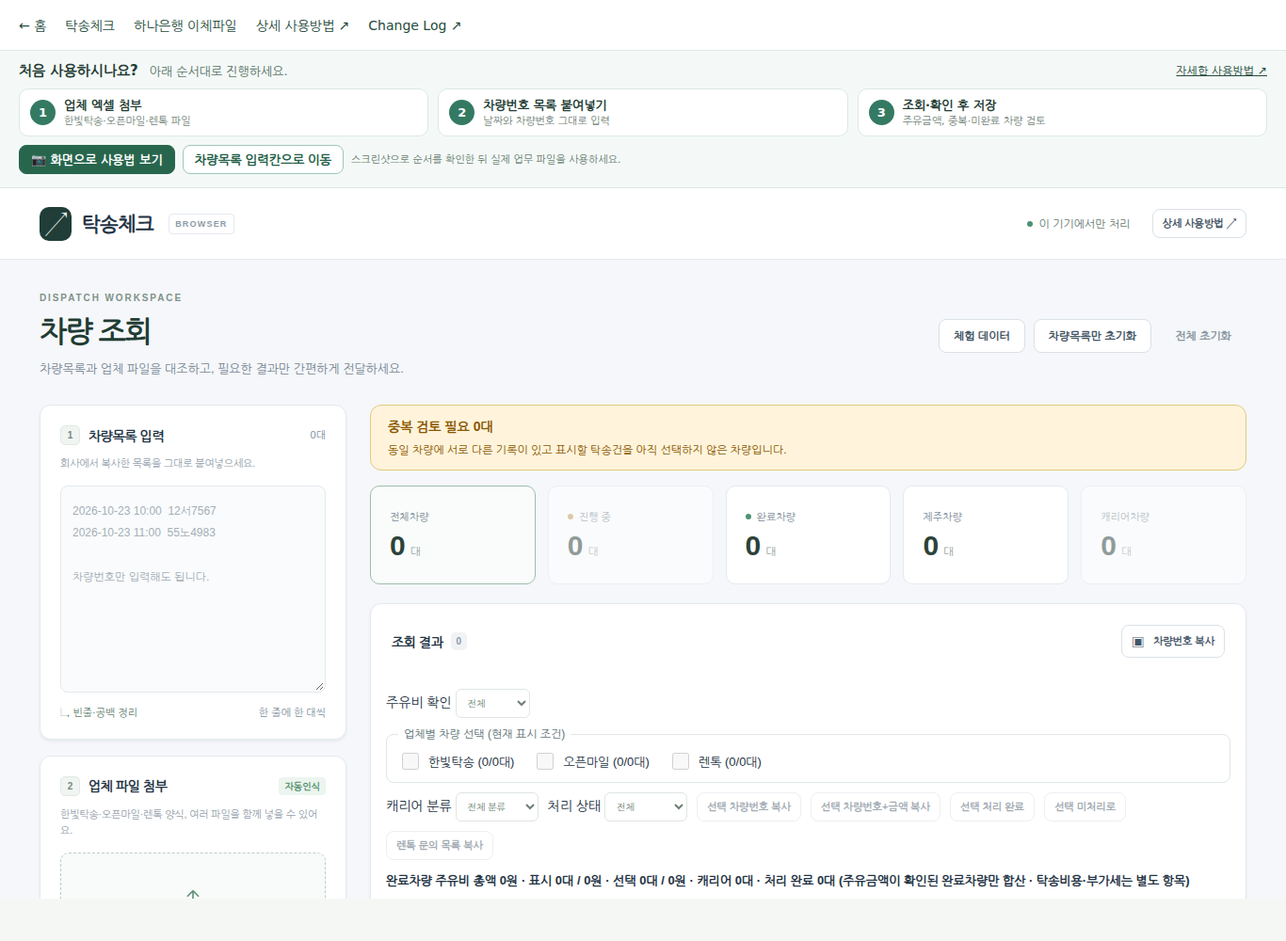
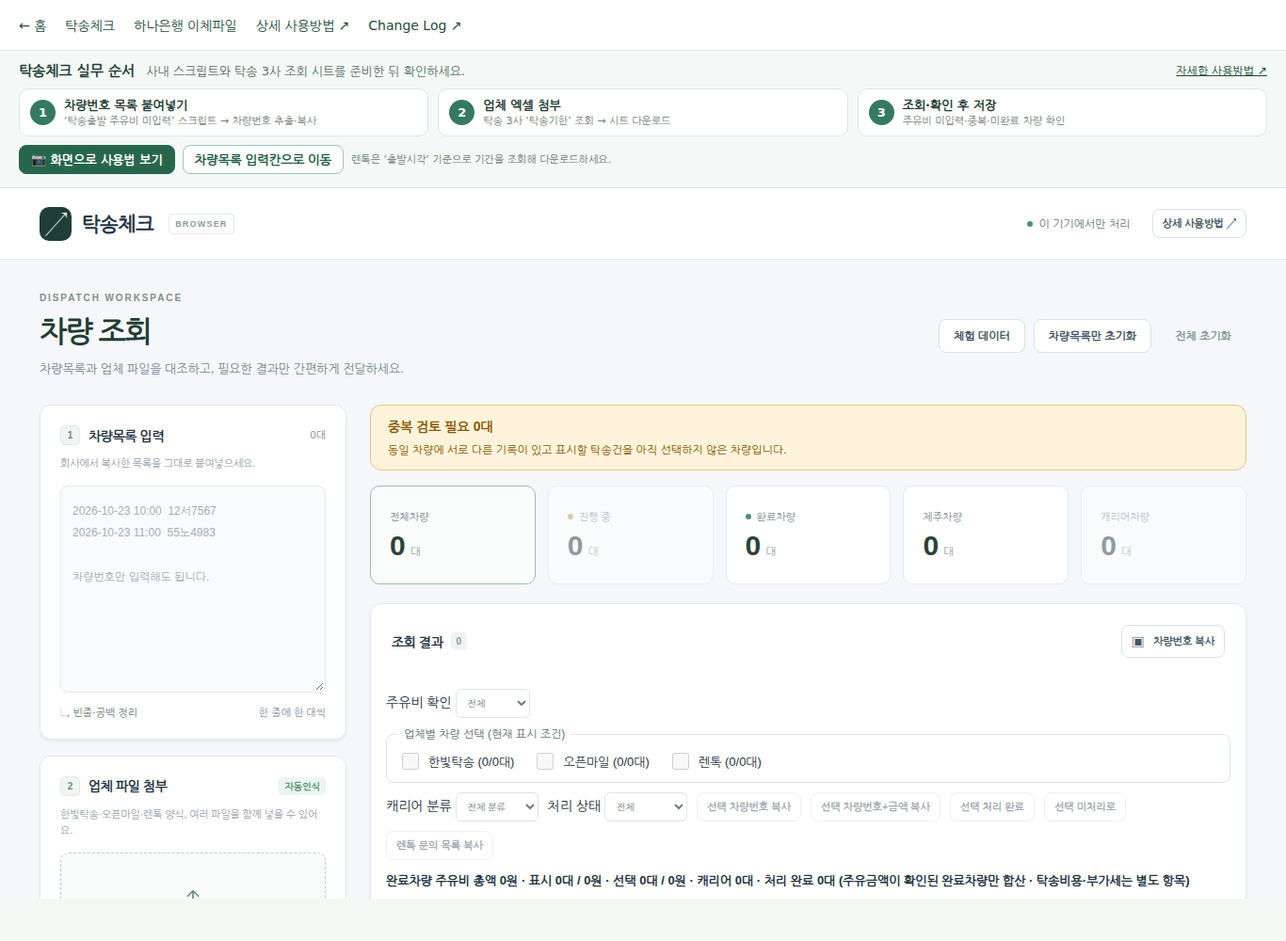
WorkTool: 탁송차량 스크립트 및 3사 탁송기한 다운로드 안내 보강
* docs: identify actual vehicle list script and three-carrier sheet workflow in dispatch quick steps

* docs: detail script-based vehicle list and three-carrier 탁송기한 sheet preparation

* docs: add detailed visual walkthrough for vehicle script and three carrier 탁송기한 sheets

* docs/test: align all dispatch onboarding with script extraction and three-carrier sheet download

* docs/test: align all dispatch onboarding with script extraction and three-carrier sheet download

* docs/test: align all dispatch onboarding with script extraction and three-carrier sheet download

* docs/test: align all dispatch onboarding with script extraction and three-carrier sheet download

* docs/test: align all dispatch onboarding with script extraction and three-carrier sheet download

* docs: capture refreshed real dispatch screen for detailed beginner walkthrough

* docs: refresh screenshots for real dispatch workflow instructions

* chore: remove one-off screenshot refresh workflow after capture

---------

Changed region(s): [[0.0, 0.062, 0.369, 0.155], [0.2767, 0.093, 0.5227, 0.186], [0.7072, 0.124, 0.8302, 0.155]]

diff --git a/dispatch-guide.html b/dispatch-guide.html
@@ -6,6 +6,7 @@
 <meta name="description" content="탁송체크의 차량목록 입력, 업체 엑셀 첨부, 날짜별 조회, 금액 검토, 수동확인과 결과 저장 방법을 안내합니다.">
 <title>탁송체크 · 상세 사용방법</title>
 <style>
+.source-path{display:grid;grid-template-columns:repeat(2,minmax(0,1fr));gap:16px;margin:18px 0}.source-card{border:1px solid #d4e5da;background:#f9fcfa;border-radius:13px;padding:20px;min-width:0}.source-number{display:inline-block;background:#e4f2e9;color:#205c40;border-radius:6px;padding:3px 9px;font-size:12px;font-weight:800}.source-card h3{font-size:18px;margin:10px 0}.source-card ol{padding-left:21px}.source-card li{font-size:14px;line-height:1.7}.source-result{font-size:13px;font-weight:650;color:#267658}.guide-screenshot{margin:22px 0 12px;border:1px solid #dae6df;border-radius:12px;overflow:hidden}.guide-screenshot img{width:100%;height:auto;display:block}.guide-screenshot figcaption{padding:10px 14px;font-size:13px;background:#f7faf8;color:#536e60}@media(max-width:760px){.source-path{grid-template-columns:1fr}.source-card{padding:16px}}
 :root{font-family:-apple-system,BlinkMacSystemFont,"Segoe UI","Malgun Gothic",sans-serif;color:#253e35;background:#f5f7f5;line-height:1.8}*{box-sizing:border-box}body{margin:0}a{color:#254b3b;text-underline-offset:4px}a:hover{text-decoration-thickness:2px}a:focus-visible,summary:focus-visible{outline:3px solid #397956;outline-offset:4px}nav{display:flex;flex-wrap:wrap;gap:12px 24px;padding:14px max(20px,calc((100vw - 1120px)/2));background:#fff;border-bottom:1px solid #dfe7e1;font-size:14px}nav a{text-decoration:none}main{max-width:1120px;margin:auto;padding:44px 24px 64px}.eyebrow{font-size:12px;letter-spacing:2px;color:#60766a}h1{font-size:clamp(28px,5vw,40px);line-height:1.35;letter-spacing:-1px;margin:12px 0 16px}h2{font-size:23px;line-height:1.5;margin:0 0 18px}h3{font-size:17px;margin:24px 0 8px}p{margin:10px 0}header>p{color:#60766a;max-width:740px}.button{display:inline-block;background:#254b3b;color:#fff;border-radius:9px;padding:10px 18px;text-decoration:none;margin:12px 0}.layout{display:grid;grid-template-columns:220px minmax(0,1fr);gap:28px;margin-top:28px}.toc{align-self:start;position:sticky;top:20px;background:#fff;border:1px solid #dfe7e1;border-radius:14px;padding:20px;font-size:14px}.toc strong{display:block;margin-bottom:12px}.toc a{display:block;padding:5px 0;text-decoration:none}.content{min-width:0}section{background:#fff;border:1px solid #dfe7e1;border-radius:14px;padding:28px;margin-bottom:20px;scroll-margin-top:20px}li{margin:8px 0}ol,ul{padding-left:23px}.note{background:#edf5ee;border-left:4px solid #397956;padding:12px 16px;border-radius:5px;margin:16px 0}.review-note{background:#fff4db;border-color:#a66a00}pre{background:#f5f7f5;border:1px solid #e0e8e2;padding:16px;border-radius:9px;overflow:auto;font-size:14px;line-height:1.8}code{font-family:ui-monospace,monospace}.tablewrap{overflow-x:auto}table{border-collapse:collapse;width:100%;font-size:14px}th,td{padding:12px;text-align:left;vertical-align:top;border-bottom:1px solid #e0e8e2}th{background:#f5f7f5;white-space:nowrap}.badge{display:inline-block;font-size:13px;font-weight:650;border-radius:5px;padding:3px 8px;white-space:nowrap}.needs{background:#fff4db;color:#8a5700}.missing{background:#eef1f4;color:#526171}.waiting{background:#e8f2ff;color:#245b9e}details{border-bottom:1px solid #e0e8e2;padding:14px 0}summary{cursor:pointer;font-weight:650}footer{font-size:13px;color:#60766a;margin-top:28px}@media(max-width:760px){main{padding:28px 16px 40px}.layout{grid-template-columns:1fr;gap:20px}.toc{position:static}.toc a{display:inline-block;margin-right:16px}section{padding:22px 18px}th,td{padding:10px 8px}}@media print{nav,.toc,.button{display:none}.layout{display:block}main{max-width:none;padding:0}section{break-inside:avoid;border:0;padding:15px 0}body{background:#fff}details{break-inside:avoid}}
 </style>
 </head>
@@ -16,11 +17,46 @@
 <div class="layout">
 <aside class="toc" aria-label="사용방법 목차"><strong>이 페이지의 내용</strong><a href="#quickstart">1. 빠르게 시작하기</a><a href="#input">2. 차량목록 입력</a><a href="#files">3. 업체 파일 첨부</a><a href="#matching">4. 조회·금액 기준</a><a href="#review">5. 상태 확인·수동확인</a><a href="#filters">6. 결과 필터·합계</a><a href="#copy-export">7. 복사·결과 저장</a><a href="#reset">8. 초기화·데이터 보관</a><a href="#faq">9. 자주 겪는 문제</a></aside>
 <div class="content">
-<section id="quickstart"><h2>1. 빠르게 시작하기</h2><ol><li><strong>차량목록 입력</strong>에 회사에서 복사한 목록을 붙여넣습니다.</li><li><strong>업체 파일 첨부</strong>에 한빛탁송·오픈마일·렌톡의 <code>.xlsx</code> 파일을 넣습니다.</li><li><strong>차량 조회하기</strong>를 누릅니다. 입력이나 파일을 바꿨다면 다시 눌러 주세요.</li><li><strong>주유비 확인</strong> 필터에서 <strong>확인 필요</strong>를 골라 원본 기록과 금액을 검토합니다.</li><li>필요한 차량을 선택해 복사하거나, 저장 범위를 고른 뒤 TXT·엑셀·PDF로 저장합니다.</li></ol><div class="note">처음에는 <strong>체험 데이터</strong>로 화면을 익힐 수 있습니다. 현재 입력과 첨부 목록이 체험 자료로 바뀔 수 있으므로, 실제 작업을 시작하기 전에 이용하세요. 체험 자료는 실제 업체 자료가 아닙니다. 접수·완료 시각이 포함되어 있으며, 12서7567·25마7579의 중복 기록에서 최신순 비교와 탁송건 선택을 확인할 수 있습니다. 77다1234는 렌톡 J열 Y인 캐리어 예시입니다. 캐리어 여부는 조회 기준일 또는 사용자가 직접 선택한 탁송건으로 판정하며 다른 날짜 기록만으로 캐리어 처리하지 않습니다.</div></section>
-<section id="input"><h2>2. 차량목록 입력</h2><p>한 줄에 한 대씩 입력합니다. 날짜·시간과 차량번호가 함께 있는 회사 목록도 그대로 붙여넣을 수 있습니다.</p><pre aria-label="차량목록 입력 예시">2026-11-03 10:00  123가4567
+<section id="quickstart">
+<h2>1. 실제 업무 순서대로 시작하기</h2>
+<p><strong>먼저 필요한 원본은 두 가지입니다.</strong> ① ‘탁송출발 주유비 미입력’ 스크립트에서 추출한 차량번호 목록, ② 탁송 3사의 ‘탁송기한’ 조회에서 다운로드한 시트입니다.</p>
+<div class="source-path">
+<div class="source-card">
+<span class="source-number">1 · 차량목록 만들기</span>
+<h3>‘탁송출발 주유비 미입력’ 스크립트</h3>
+<ol>
+<li>사내 업무 시스템에서 <strong>탁송출발 주유비 미입력</strong> 스크립트를 실행합니다.</li>
+<li>조회 결과에서 필요한 <strong>차량번호를 추출</strong>하고 복사합니다.</li>
+<li>WorkTool의 <strong>차량목록 입력</strong>에 붙여넣습니다. 날짜·시간이 함께 복사된 경우 그대로 입력할 수 있습니다.</li>
+</ol>
+<p class="source-result">준비 완료: 차량번호 목록이 WorkTool 왼쪽 입력칸에 표시됩니다.</p>
+</div>
+<div class="source-card">
+<span class="source-number">2 · 업체파일 준비하기</span>
+<h3>탁송 3사 ‘탁송기한’ 조회</h3>
+<ol>
+<li><strong>한빛탁송 · 오픈마일 · 렌톡</strong> 각 업체의 조회 화면에서 <strong>탁송기한</strong>을 조회합니다.</li>
+<li>확인할 기간을 설정하고 <strong>조회 → 시트 다운로드</strong>를 진행합니다.</li>
+<li>다운로드한 <strong>3개 업체 시트(.xlsx)</strong>를 WorkTool의 <strong>업체 파일 첨부</strong> 영역에 넣습니다.</li>
+<li>첨부 후 파일명, 업체 인식 여부, 기록 건수를 확인합니다.</li>
+</ol>
+<p class="source-result">준비 완료: 조회 대상 기간에 해당하는 3사 시트가 첨부되어 있습니다.</p>
+</div>
+</div>
+<div class="note review-note"><strong>렌톡 다운로드 주의</strong><p>렌톡은 시트를 다운로드하기 전에 조회 기준을 <strong>‘요청시각’ → ‘출발시각’</strong>으로 바꾸고 기간을 설정하세요. 세 업체의 시트 기간이 조회할 차량의 운행일과 맞는지도 확인해 주세요.</p></div>
+<h3>3. WorkTool에서 조회·확인</h3>
+<ol>
+<li>차량목록과 업체파일이 모두 준비되면 <strong>차량 조회하기</strong>를 누릅니다. 첨부·입력이 바뀌었다면 다시 조회합니다.</li>
+<li><strong>주유비 확인 → 확인 필요</strong>로 미입력 차량을 우선 보고, 미조회·미완료·중복 검토 필요 차량도 확인합니다.</li>
+<li>필요한 차량번호/금액을 복사하거나 저장 범위를 선택해 TXT·Excel·PDF로 저장합니다.</li>
+</ol>
+<figure class="guide-screenshot"><a href="./guide/dispatch-screen.png" target="_blank" rel="noopener"><img src="./guide/dispatch-screen.png" alt="탁송체크 실제 화면 예시. 왼쪽에 차량목록 입력과 업체 파일 첨부, 오른쪽에 조회 결과가 보입니다." loading="lazy" width="1366" height="1000"></a><figcaption>WorkTool 화면: 왼쪽 위 차량목록 입력, 왼쪽 아래 업체 파일 첨부, 오른쪽 조회 결과. 사진을 누르면 크게 볼 수 있습니다. 사내 스크립트 및 각 업체 조회 화면은 이 사진에 포함되지 않습니다.</figcaption></figure>
+<p><a href="./quick-guide.html#dispatch">그림으로 보는 간단 사용법 ↗</a></p>
+</section>
+<section id="input"><h2>2. 차량목록 입력</h2><p><strong>원본 출처:</strong> 사내 <strong>‘탁송출발 주유비 미입력’ 스크립트</strong>를 실행하여 차량번호를 추출하고 복사한 결과입니다. 복사한 목록을 WorkTool의 <strong>차량목록 입력</strong>에 붙여넣습니다.</p><p>한 줄에 한 대씩 입력합니다. 날짜·시간과 차량번호가 함께 있는 목록도 그대로 붙여넣을 수 있습니다.</p><pre aria-label="차량목록 입력 예시">2026-11-03 10:00  123가4567
 2026-11-03 11:30  45나6789</pre><p>날짜 없이 차량번호만 입력할 수도 있습니다.</p><pre>123가4567
 45나6789</pre><ul><li><strong>빈줄·공백 정리</strong>를 누르면 인식된 목록을 정리합니다. 인식하지 못한 줄은 안내된 내용을 수정해야 합니다.</li><li>복사·저장은 차량번호 중복을 제거합니다. 같은 차량의 서로 다른 날짜 기록을 각각 출력하려면 <strong>날짜별로 나누어 조회</strong>하세요. 한 건만 표시할 때는 탁송건 선택 기능을 사용합니다.</li><li>입력 날짜는 조회 기준입니다. 특정 운행일을 확인하려면 해당 날짜를 함께 입력하세요.</li></ul></section>
-<section id="files"><h2>3. 업체 파일 첨부</h2><div class="note review-note"><strong>주의사항 · 렌톡 시트 다운로드</strong><p>렌톡 시트를 다운로드할 때는 기간 설정의 기준을 <strong>‘요청시각’에서 ‘출발시각’으로 변경</strong>한 뒤, 조회할 기간을 설정하고 다운로드하세요.</p></div><ol><li><strong>파일을 놓거나 클릭해서 첨부</strong> 영역을 누르거나 파일을 끌어 놓습니다. 여러 파일을 함께 첨부할 수 있습니다.</li><li>암호가 있는 파일은 열기 암호를 입력합니다. 암호는 파일을 읽을 때만 사용하고 저장하지 않습니다.</li><li>첨부 목록에서 파일명, 인식된 업체 양식과 기록 건수를 확인합니다. 잘못 넣은 파일은 옆의 <strong>×</strong>로 제거합니다.</li></ol><div class="tablewrap"><table><caption>업체별 확인 항목</caption><thead><tr><th scope="col">업체</th><th scope="col">조회하는 비용</th><th scope="col">빈 금액 처리</th></tr></thead><tbody><tr><td>한빛탁송</td><td>주유/부대비용 총액</td><td>0원으로 처리. 완료 여부는 별도로 확인합니다.</td></tr><tr><td>오픈마일</td><td>주유비</td><td>미입력으로 남깁니다. 숫자 0은 주유비 없음입니다.</td></tr><tr><td>렌톡</td><td>자동 금액 확정 없이 문의 목록 제공</td><td>슬랙봇 등으로 별도 확인합니다.</td></tr></tbody></table></div><p>지원 형식은 <strong>.xlsx</strong>, 한 파일 최대 <strong>40MB</strong>, 한 시트 최대 <strong>100,000행</strong>입니다. 업체는 엑셀 양식의 항목을 보고 자동인식합니다.</p></section>
+<section id="files"><h2>3. 업체 파일 첨부</h2><p><strong>원본 출처:</strong> 한빛탁송·오픈마일·렌톡에서 각각 <strong>탁송기한 조회 → 대상 기간 지정 → 조회 → 시트 다운로드</strong>로 저장한 엑셀 파일입니다. 저장된 시트를 WorkTool의 업체 파일 첨부 영역에 넣습니다.</p><div class="note review-note"><strong>주의사항 · 렌톡 시트 다운로드</strong><p>렌톡 시트를 다운로드할 때는 기간 설정의 기준을 <strong>‘요청시각’에서 ‘출발시각’으로 변경</strong>한 뒤, 조회할 기간을 설정하고 다운로드하세요.</p></div><ol><li><strong>파일을 놓거나 클릭해서 첨부</strong> 영역을 누르거나 파일을 끌어 놓습니다. 여러 파일을 함께 첨부할 수 있습니다.</li><li>암호가 있는 파일은 열기 암호를 입력합니다. 암호는 파일을 읽을 때만 사용하고 저장하지 않습니다.</li><li>첨부 목록에서 파일명, 인식된 업체 양식과 기록 건수를 확인합니다. 잘못 넣은 파일은 옆의 <strong>×</strong>로 제거합니다.</li></ol><div class="tablewrap"><table><caption>업체별 확인 항목</caption><thead><tr><th scope="col">업체</th><th scope="col">조회하는 비용</th><th scope="col">빈 금액 처리</th></tr></thead><tbody><tr><td>한빛탁송</td><td>주유/부대비용 총액</td><td>0원으로 처리. 완료 여부는 별도로 확인합니다.</td></tr><tr><td>오픈마일</td><td>주유비</td><td>미입력으로 남깁니다. 숫자 0은 주유비 없음입니다.</td></tr><tr><td>렌톡</td><td>자동 금액 확정 없이 문의 목록 제공</td><td>슬랙봇 등으로 별도 확인합니다.</td></tr></tbody></table></div><p>지원 형식은 <strong>.xlsx</strong>, 한 파일 최대 <strong>40MB</strong>, 한 시트 최대 <strong>100,000행</strong>입니다. 업체는 엑셀 양식의 항목을 보고 자동인식합니다.</p></section>
 <section id="matching"><h2>4. 조회·금액 기준</h2><h3>어느 날짜를 조회하나요?</h3><p>원본에 시간이 있으면 <strong>2026-11-04 14:30</strong>처럼 탁송일시에 시간까지 표시합니다. 초 정보가 있으면 초도 표시합니다. 조회 결과·탁송건 선택 목록·조회 근거와 TXT·엑셀·PDF 저장에 반영합니다. 원본에 날짜만 있으면 날짜만 표시하며, 날짜 매칭과 시작일·종료일 필터는 일자 기준으로 동작합니다. 같은 날이라도 시간이 다른 기록은 별도 선택 항목으로 구분합니다.</p><ul><li><strong>입력에 날짜가 있으면:</strong> 기본적으로 같은 운행일 기록만 조회합니다. 해당 날짜의 기록이 없으면 다른 날짜 금액을 가져오지 않고 확인 대상으로 표시합니다.</li><li><strong>날짜가 없으면:</strong> 해당 차량의 첨부 업체 전체 기록에서 완료·접수일시 중 최신 시각을 기준으로 조회하고, 해당 시각이 없으면 탁송일시를 사용합니다. 원본 운행일이 없으면 차량번호 기준으로 조회하고 안내를 표시합니다.</li><li>결과의 시작일·종료일 필터는 조회 결과를 좁혀 보는 기능입니다. 다른 날짜 기록을 다시 조회하려면 입력 날짜를 바꾸고 <strong>차량 조회하기</strong>를 누르세요.</li></ul><h3>같은 차량의 탁송건이 여러 개라면</h3><p>접수일시는 <strong>한빛탁송 I열·오픈마일 A열·렌톡 C열 요청 시각</strong>을 우선 사용합니다. 각 기록의 <strong>탁송완료일시·탁송접수일시</strong>를 함께 표시하고, 둘 중 더 최신인 시각으로 정렬해 최신 비교 항목을 맨 위에 보여 줍니다. 날짜를 입력하면 같은 운행일 내에서 비교하고, 날짜가 없으면 첨부 기록 전체에서 최근 시각을 기준으로 우선 표시합니다. 완료·접수 시각이 모두 없으면 원본 탁송일시를 사용합니다. 해당 열이나 값이 없는 경우에는 ‘정보 없음’으로 표시하며, 금액 충돌이나 별도 운행 검토는 직접 한 건을 선택해 해결합니다.</p><p>상단 <strong>중복 검토 필요 N대</strong>에서 <strong>검토 목록 보기</strong>를 누르면 기존 필터·검색·날짜 조건을 해제하고 중복 검토 대상만 모아 표시합니다. 결과의 <strong>중복 검토 필요</strong> 탭에서도 열 수 있습니다. 내용이 같은 중복 행은 제외하고, 서로 다른 기록이 여러 개이며 표시할 건을 아직 선택하지 않은 차량을 차량번호당 1대로 셉니다.</p><ol><li>결과의 <strong>조회 근거 / 이전 기록</strong> 열에서 <strong>표시할 탁송건 선택</strong>을 확인합니다. 내용이 같은 중복 기록은 하나로 묶습니다.</li><li>날짜·업체·상태·금액·출발지·파일 및 원본 행을 비교해 적용할 건을 선택하고 <strong>선택한 탁송건 적용</strong>을 누릅니다.</li><li>선택한 기록의 날짜·업체·상태·금액이 결과와 복사·저장에 반영됩니다. 적용한 차량은 중복 검토 필요 건수와 목록에서 빠집니다. 입력 날짜와 다른 기록도 직접 선택할 수 있으며, 다른 기록의 금액은 합산하지 않습니다.</li><li>첫 항목인 <strong>자동 조회 기준으로 표시</strong>를 적용하면 원래 조회 기준으로 되돌아갑니다.</li></ol><p>선택은 현재 페이지에서 유지하며, 원본 기록이 바뀌거나 전체 초기화·새로고침하면 다시 선택해야 합니다. 선택한 기록이 미완료·금액 미입력·렌톡 문의·캐리어이면 해당 상태로 처리합니다. 캐리어 여부도 선택한 건의 J열 값을 적용합니다. 수동확인 금액은 선택한 기록별로 구분합니다.</p><h3>탁송비용·부가세·총 탁송비용</h3><div class="tablewrap"><table><thead><tr><th scope="col">업체</th><th scope="col">탁송비용 열</th></tr></thead><tbody><tr><td>한빛탁송</td><td>AP열</td></tr><tr><td>오픈마일</td><td>U열</td></tr><tr><td>렌톡</td><td>S열</td></tr></tbody></table></div><p>조회 표에 <strong>탁송비용</strong>, <strong>탁송비용 부가세</strong>, <strong>총 탁송비용</strong>을 별도로 표시합니다. 총 탁송비용은 탁송비용과 부가세를 더한 금액입니다. 예: 50,000원 + 5,000원 = 55,000원. 세 항목의 숫자를 각각 클릭하면 해당 금액을 복사합니다. 천 단위 쉼표와 ‘원’ 없이 숫자만 복사하며, 미입력·선택 필요 상태는 복사하지 않습니다. 부가세는 원본 탁송비용의 <strong>10%</strong>이며 반올림하지 않습니다. 예: 50,000원 → 5,000원, 34,567원 → 3,456.7원. 빈칸·잘못된 금액은 미입력으로 표시하며 숫자 0은 유효합니다. 완료 여부와 관계없이 선택한 기록의 원본 비용을 보여 줍니다.</p><p>동일 기준일에 탁송비용이 다르면 <strong>선택 필요</strong>로 표시합니다. 탁송건을 선택하면 해당 건의 비용·부가세·총액을 함께 적용합니다. TXT·엑셀·PDF 저장에도 세 항목이 포함됩니다. 기존 ‘차량번호+금액 복사’는 주유금액을 복사합니다.</p><h3>어떤 금액을 적용하나요?</h3><ul><li>완료 기록의 금액을 확인합니다. 미완료 건은 금액이 있어도 완료 금액으로 확정하지 않습니다.</li><li>원본 금액은 <strong>10원 단위로 반올림</strong>합니다. 예: 12,345원 → 12,350원. 수동확인 금액은 입력한 정수 금액을 그대로 적용합니다.</li><li>내용이 같은 중복 기록은 제외하며, <strong>서로 다른 운행은 자동 합산하지 않습니다.</strong></li><li>같은 기준일의 완료 금액이 다르거나, 운행번호·출발지로 보아 별도 운행인지 불명확하면 자동 확정하지 않고 검토 대상으로 남깁니다.</li></ul><div class="note review-note"><strong>조회 근거 / 이전 기록</strong>에서 파일·시트·원본 행과 운행 기록을 확인하세요. 금액 충돌 시 원본을 대조하거나 업체에 문의한 뒤 수동확인합니다.</div></section>
 <section id="review"><h2>5. 상태 확인·수동확인</h2><p><strong>조회 상태</strong>와 <strong>주유비 확인 / 수동확인</strong> 열을 함께 확인하세요. 완료차량에 포함되어도 금액은 추가 확인이 필요할 수 있습니다.</p><div class="tablewrap"><table><thead><tr><th scope="col">표시</th><th scope="col">의미와 다음 작업</th></tr></thead><tbody><tr><td><span class="badge needs">주황색 · 확인 필요</span></td><td>금액 미입력·형식 오류·동일 기준일 금액 상이·운행 구분 등 검토가 필요합니다. 표시된 사유와 조회 근거를 확인합니다.</td></tr><tr><td><span class="badge missing">회색 · 미조회</span></td><td>일치하는 원본 기록이 없습니다. 차량번호와 첨부 파일·기간을 확인합니다.</td></tr><tr><td><span class="badge waiting">파란색 · 완료 대기</span></td><td>미완료 건입니다. 업체 상태가 갱신된 파일을 받아 다시 조회합니다.</td></tr><tr><td>확인됨 / 없음(0원)</td><td>금액이 확인된 건 / 주유비가 0원인 건입니다.</td></tr><tr><td>업체 문의</td><td>렌톡 문의 대상 등 별도 확인이 필요합니다. 문의 목록을 복사해 활용합니다.</td></tr><tr><td>캐리어 제외</td><td>렌톡 시트 J열 ‘캐리어탁송’이 Y인 차량입니다. 메모·비고의 문구로는 캐리어를 판정하지 않습니다. 완료 여부와 관계없이 분류하고 렌톡 문의 목록에서 제외합니다.</td></tr></tbody></table></div><h3>확인한 금액을 직접 저장하기</h3><ol><li>수동확인이 가능한 완료 건에서 <strong>금액 수동확인</strong>을 펼칩니다.</li><li><strong>확인한 금액(원)</strong>에 0 이상의 정수를 입력합니다.</li><li><strong>확인 사유 또는 확인처</strong>에 근거를 적고 <strong>확인 저장</strong>을 누릅니다.</li><li>취소하려면 <strong>수동확인 해제</strong>를 누릅니다. 저장된 확인 내역 전부를 지우려면 <strong>저장된 수동확인 전체 삭제</strong>를 사용합니다.</li></ol><p>수동확인은 완료 기록이 있는 대상에서만 가능하며 캐리어는 제외됩니다. 저장한 뒤 원본 기록이 바뀌면 다시 확인해야 합니다.</p></section>
 <section id="filters"><h2>6. 결과 필터·합계</h2><ul><li>상단 요약이나 탭의 <strong>전체차량·진행 중·완료차량·제주차량·캐리어차량</strong>을 눌러 목록을 좁힙니다.</li><li><strong>렌톡 문의·확인 필요</strong> 탭과 업체, 탁송 상태, 시작일·종료일, 차량번호 검색을 함께 사용할 수 있습니다.</li><li><strong>캐리어 분류</strong>, <strong>처리 상태</strong>, <strong>주유비 확인</strong> 필터로 미처리나 확인 필요 차량을 모아 봅니다.</li><li>제주차량은 렌톡 기록의 출발지 주소를 기준으로 상태와 관계없이 판별합니다.</li><li>표 제목의 <strong>↕</strong> 버튼을 누르면 정렬 방향을 바꿉니다.</li></ul><p><strong>완료차량 총액·표시·선택</strong>의 합계에는 금액이 확인된 완료차량만 포함됩니다. 완료차량 수와 금액 확인 차량 수는 다를 수 있습니다.</p><div class="note">결과가 보이지 않으면 탭을 <strong>전체차량</strong>으로 바꾸고 업체·탁송 상태·캐리어·처리 상태·주유비 확인을 전체로 되돌린 뒤, 날짜와 검색어를 지워 보세요.</div></section>

diff --git a/index.html b/index.html
@@ -2,4 +2,4 @@
 <html lang="ko"><head><meta charset="utf-8"><meta name="viewport" content="width=device-width,initial-scale=1"><meta name="description" content="탁송 차량 조회와 하나은행 이체파일 생성을 한곳에서 이용하세요."><title>업무 도구 · 탁송체크 & 이체파일</title><style>
 .visual-guide-hero{display:inline-flex;gap:11px;align-items:center;flex-wrap:wrap;margin-top:18px;padding:12px 17px;border:1px solid #acd7c1;border-radius:11px;background:#e8f5ed;color:#235942;text-decoration:none;font-weight:800;font-size:14px}.visual-guide-hero span{font-size:12px;font-weight:500;color:#3d7760}.visual-guide-hero:hover,.visual-guide-hero:focus-visible{border-color:#579d77;background:#dff2e8}.beginner-start{display:grid;gap:7px;margin:24px 0 0;padding:16px 20px;border:1px solid #dce8de;border-radius:12px;background:#fff;color:#4c6859;font-size:13px;line-height:1.65}.beginner-start strong{font-size:15px;color:#234b35}.beginner-start span b{color:#285a41}.beginner-start+section.tools{margin-top:20px}
 :root{font-family:-apple-system,BlinkMacSystemFont,"Segoe UI","Malgun Gothic",sans-serif;color:#253e35;background:#f5f7f5;font-synthesis:none}*{box-sizing:border-box}body{margin:0}a{color:inherit;text-decoration:none}header{height:78px;padding:0 6vw;display:flex;align-items:center;justify-content:space-between;background:#fff;border-bottom:1px solid #e2e9e4}.brand{display:flex;align-items:center;gap:12px;font-size:19px;font-weight:750}.mark{background:#254b3b;color:#fff;padding:6px 12px;border-radius:10px;font-size:24px}.local{font-size:12px;color:#6b8275;display:flex;align-items:center;gap:7px}.local:before{content:'';width:6px;height:6px;background:#579c73;border-radius:50%}main{max-width:1120px;margin:auto;padding:70px 28px 35px}.eyebrow{font-size:11px;font-weight:700;letter-spacing:2px;color:#7c9285}h1{font-size:clamp(28px,4vw,42px);letter-spacing:-1.7px;margin:16px 0 15px;font-weight:720;line-height:1.4}.intro{font-size:15px;color:#7a8980;line-height:1.8;margin:0}.tools{display:grid;grid-template-columns:1fr 1fr;gap:24px;margin-top:40px}.tool{position:relative;padding:30px;background:#fff;border:1px solid #dfe7e1;border-radius:18px;display:flex;flex-direction:column;transition:transform .18s,box-shadow .18s,border-color .18s;min-height:358px}.tool:hover{transform:translateY(-4px);border-color:#89af99;box-shadow:0 14px 35px #244b3a0c}.tool:focus-visible{outline:3px solid #8bbaa0;outline-offset:5px}.cardtop{display:flex;justify-content:space-between;align-items:center}.icon{display:grid;place-items:center;width:52px;height:52px;background:#edf5ee;color:#367555;border-radius:13px}.icon svg{width:27px;height:27px;fill:none;stroke:currentColor;stroke-width:1.5;stroke-linejoin:round;stroke-linecap:round}.tag{font-size:10px;letter-spacing:1.1px;color:#8b9d91}.tool h2{font-size:25px;letter-spacing:-.8px;margin:27px 0 13px}.tool p{font-size:13px;color:#7b8980;line-height:1.85;margin:0}.chips{display:flex;gap:7px;flex-wrap:wrap;margin:22px 0 30px}.chips span{font-size:10px;color:#708776;border:1px solid #e4ece5;border-radius:5px;padding:5px 7px;background:#fafcfa}.cta{margin-top:auto;display:flex;justify-content:space-between;align-items:center;border-top:1px solid #e8ede9;padding-top:19px;font-size:13px;font-weight:650;color:#397956}.cta b{font-size:22px;font-weight:400}.transfer .icon{color:#168779;background:#eaf6f3}.transfer .cta{color:#178578}.footnote{display:flex;gap:14px;align-items:center;margin-top:29px;padding:20px 22px;border:1px solid #e2e9e3;border-radius:12px;color:#819087;font-size:12px;line-height:1.8}.footnote strong{color:#597361;white-space:nowrap;font-weight:600}.footnote p{margin:0}footer{margin-top:55px;padding-top:20px;border-top:1px solid #dfe7e1;display:flex;justify-content:space-between;font-size:10px;color:#95a299;gap:12px}@media(max-width:650px){header{height:66px;padding:0 20px}.brand{font-size:17px}.local{font-size:10px}main{padding:40px 20px 25px}.tools{grid-template-columns:1fr;gap:17px;margin-top:28px}.tool{padding:25px;min-height:325px}.tool h2{font-size:24px;margin-top:22px}.footnote{display:block}.footnote strong{display:block;margin-bottom:5px}footer{margin-top:35px}}
-</style></head><body><header><a href="./index.html" class="brand" aria-label="업무 도구 홈"><span class="mark">↗</span> 업무 도구</a><span class="local">로그인 없이 바로 이용</span></header><main><div class="eyebrow">YOUR DAILY WORKSPACE</div><h1>어떤 업무를 시작할까요?</h1><p class="intro">하실 업무를 선택한 뒤, 화면에 표시되는 단계에 따라 진행하세요.<br>처음 사용해도 예시와 상세 안내를 확인할 수 있습니다.</p><a class="visual-guide-hero" href="./quick-guide.html">📷 화면으로 사용법 먼저 보기 <span>실제 스크린샷으로 두 도구 사용법 확인 ↗</span></a><aside class="beginner-start" aria-label="처음 사용자를 위한 안내"><strong>처음 사용한다면 이렇게 시작하세요</strong><span><b>탁송체크</b>는 업체 엑셀 + 차량번호 목록이 필요하며, 실제 화면 스크린샷으로 사용법을 확인할 수 있습니다.</span><span><b>하나은행 이체파일</b>은 Slack 이체 요청 원문을 붙여넣고, 계좌·금액을 확인한 뒤 엑셀을 저장합니다.</span></aside><section class="tools" aria-label="기능 선택"><a class="tool" href="./dispatch.html"><div class="cardtop"><span class="icon"><svg viewBox="0 0 28 28" aria-hidden="true"><path d="m5 12 2-6h14l2 6M5 12h18v9H5zM8 21v3m12-3v3M8 16h3m6 0h3M10 6V4h8v2"/></svg></span><span class="tag">01 / DISPATCH</span></div><h2>탁송체크</h2><p>차량목록과 업체 엑셀을 대조하고<br>주유금액과 확인이 필요한 차량을 정리합니다.</p><div class="chips"><span>업체 파일 자동인식</span><span>제주 출발 필터</span><span>TXT · 엑셀 · PDF</span></div><div class="cta">차량 조회 시작하기 <b aria-hidden="true">→</b></div></a><a class="tool transfer" href="./transfer.html"><div class="cardtop"><span class="icon"><svg viewBox="0 0 28 28" aria-hidden="true"><rect x="4" y="5" width="20" height="18" rx="3"/><path d="M4 11h20M8 16h8m-3-3 3 3-3 3M20 20h-5"/></svg></span><span class="tag">02 / TRANSFER</span></div><h2>하나은행 이체파일</h2><p>Slack 스레드에서 이체 정보를 추출하고<br>검토한 내용을 은행 업로드용 엑셀로 만듭니다.</p><div class="chips"><span>여러 스레드 추출</span><span>1억 초과 자동 분할</span><span>생성일시 파일명</span></div><div class="cta">이체파일 만들기 <b aria-hidden="true">→</b></div></a></section><p style="font-size:14px;margin:20px 0 0"><a href="./dispatch-guide.html" target="_blank" rel="noopener" style="text-decoration:underline;text-underline-offset:4px">탁송체크 상세 사용방법 ↗</a> <span aria-hidden="true"> · </span> <a href="./transfer-guide.html" target="_blank" rel="noopener" style="text-decoration:underline;text-underline-offset:4px">하나은행 이체툴 상세 사용방법 ↗</a></p><aside class="footnote"><strong>이 기기에서만 처리해요</strong><p>입력한 내용과 첨부 파일은 서버로 전송하지 않습니다. 각 도구 상단에서 다른 기능으로 이동할 수 있습니다.</p></aside><footer><span>업무 도구 · 탁송체크 & 하나은행 이체파일</span><a href="./changelog.html" target="_blank" rel="noopener" style="text-decoration:underline;text-underline-offset:4px">Change Log ↗</a><span>Mac & Windows</span></footer></main></body></html>
+</style></head><body><header><a href="./index.html" class="brand" aria-label="업무 도구 홈"><span class="mark">↗</span> 업무 도구</a><span class="local">로그인 없이 바로 이용</span></header><main><div class="eyebrow">YOUR DAILY WORKSPACE</div><h1>어떤 업무를 시작할까요?</h1><p class="intro">하실 업무를 선택한 뒤, 화면에 표시되는 단계에 따라 진행하세요.<br>처음 사용해도 예시와 상세 안내를 확인할 수 있습니다.</p><a class="visual-guide-hero" href="./quick-guide.html">📷 화면으로 사용법 먼저 보기 <span>실제 스크린샷으로 두 도구 사용법 확인 ↗</span></a><aside class="beginner-start" aria-label="처음 사용자를 위한 안내"><strong>처음 사용한다면 이렇게 시작하세요</strong><span><b>탁송체크</b>는 ‘탁송출발 주유비 미입력’ 스크립트의 차량번호 목록과 탁송 3사 ‘탁송기한’ 조회 시트가 필요합니다.</span><span><b>하나은행 이체파일</b>은 Slack 이체 요청 원문을 붙여넣고, 계좌·금액을 확인한 뒤 엑셀을 저장합니다.</span></aside><section class="tools" aria-label="기능 선택"><a class="tool" href="./dispatch.html"><div class="cardtop"><span class="icon"><svg viewBox="0 0 28 28" aria-hidden="true"><path d="m5 12 2-6h14l2 6M5 12h18v9H5zM8 21v3m12-3v3M8 16h3m6 0h3M10 6V4h8v2"/></svg></span><span class="tag">01 / DISPATCH</span></div><h2>탁송체크</h2><p>차량목록과 업체 엑셀을 대조하고<br>주유금액과 확인이 필요한 차량을 정리합니다.</p><div class="chips"><span>업체 파일 자동인식</span><span>제주 출발 필터</span><span>TXT · 엑셀 · PDF</span></div><div class="cta">차량 조회 시작하기 <b aria-hidden="true">→</b></div></a><a class="tool transfer" href="./transfer.html"><div class="cardtop"><span class="icon"><svg viewBox="0 0 28 28" aria-hidden="true"><rect x="4" y="5" width="20" height="18" rx="3"/><path d="M4 11h20M8 16h8m-3-3 3 3-3 3M20 20h-5"/></svg></span><span class="tag">02 / TRANSFER</span></div><h2>하나은행 이체파일</h2><p>Slack 스레드에서 이체 정보를 추출하고<br>검토한 내용을 은행 업로드용 엑셀로 만듭니다.</p><div class="chips"><span>여러 스레드 추출</span><span>1억 초과 자동 분할</span><span>생성일시 파일명</span></div><div class="cta">이체파일 만들기 <b aria-hidden="true">→</b></div></a></section><p style="font-size:14px;margin:20px 0 0"><a href="./dispatch-guide.html" target="_blank" rel="noopener" style="text-decoration:underline;text-underline-offset:4px">탁송체크 상세 사용방법 ↗</a> <span aria-hidden="true"> · </span> <a href="./transfer-guide.html" target="_blank" rel="noopener" style="text-decoration:underline;text-underline-offset:4px">하나은행 이체툴 상세 사용방법 ↗</a></p><aside class="footnote"><strong>이 기기에서만 처리해요</strong><p>입력한 내용과 첨부 파일은 서버로 전송하지 않습니다. 각 도구 상단에서 다른 기능으로 이동할 수 있습니다.</p></aside><footer><span>업무 도구 · 탁송체크 & 하나은행 이체파일</span><a href="./changelog.html" target="_blank" rel="noopener" style="text-decoration:underline;text-underline-offset:4px">Change Log ↗</a><span>Mac & Windows</span></footer></main></body></html>

diff --git a/dispatch.html b/dispatch.html
@@ -1,4 +1,4 @@
-<!doctype html><html lang="ko"><head><meta charset="utf-8"><meta name="viewport" content="width=device-width,initial-scale=1"><title>탁송체크 · 차량 조회</title><style>*{box-sizing:border-box}body{margin:0;font-family:system-ui,sans-serif;background:#f5f7f5}nav{min-height:54px;height:54px;overflow-x:auto;white-space:nowrap;display:flex;align-items:center;gap:20px;padding:0 20px;background:#fff;border-bottom:1px solid #dfe7e1}a{color:#254b3b;text-decoration:none;font-size:14px}a:focus-visible{outline:2px solid #254b3b}iframe{display:block;width:100%;height:calc(100dvh - 245px);min-height:520px;border:0}.dispatch-start{padding:12px 20px 14px;background:#f4f9f7;border-bottom:1px solid #dce8e2;color:#233c34}.dispatch-start-title{display:flex;gap:12px;align-items:center;flex-wrap:wrap;font-size:13px;margin-bottom:10px}.dispatch-start-title strong{font-size:15px}.dispatch-start-title>span{color:#597367}.dispatch-start-title a{margin-left:auto;text-decoration:underline;font-size:12px}.dispatch-steps{display:grid;grid-template-columns:repeat(3,minmax(0,1fr));gap:10px;margin:0;padding:0;list-style:none}.dispatch-steps li{display:flex;align-items:center;gap:9px;background:#fff;border:1px solid #dce9e3;border-radius:10px;padding:9px 11px}.dispatch-steps b{display:grid;place-items:center;flex:none;width:27px;height:27px;border-radius:50%;color:white;background:#347a62;font-size:13px}.dispatch-steps strong{display:block;font-size:13px}.dispatch-steps small{display:block;color:#718177;font-size:11px;margin-top:3px}.dispatch-beginner-actions{display:flex;gap:8px;align-items:center;flex-wrap:wrap;margin-top:9px}.dispatch-beginner-actions button{border:1px solid #9ec8b5;border-radius:8px;background:#fff;color:#235e47;padding:7px 12px;font-weight:700;cursor:pointer}.dispatch-visual-guide{display:inline-flex;align-items:center;justify-content:center;border:1px solid #27664d;border-radius:8px;background:#27664d;color:#fff;padding:7px 12px;font-size:13px;font-weight:800;text-decoration:none}.dispatch-visual-guide:hover,.dispatch-visual-guide:focus-visible{background:#1e563e;color:#fff}.dispatch-beginner-actions button:focus-visible{outline:2px solid #206e5b;outline-offset:3px}.dispatch-beginner-actions small{color:#677b6e;font-size:11px}@media(max-width:700px){.dispatch-start{padding:10px 12px}.dispatch-start-title{margin-bottom:8px}.dispatch-steps{grid-template-columns:1fr;gap:5px}.dispatch-steps li{padding:6px 9px}.dispatch-steps small{display:none}.dispatch-start-title a{margin-left:0}.dispatch-beginner-actions button{font-size:12px}iframe{height:calc(100dvh - 350px);min-height:500px}}</style></head><body><nav aria-label="기능 이동"><a href="./index.html">← 홈</a><a href="./dispatch.html" aria-current="page">탁송체크</a><a href="./transfer.html">하나은행 이체파일</a><a href="./dispatch-guide.html" target="_blank" rel="noopener">상세 사용방법 ↗</a><a href="./changelog.html" target="_blank" rel="noopener">Change Log ↗</a></nav><section class="dispatch-start" aria-label="탁송체크 처음 사용 안내"><div class="dispatch-start-title"><strong>처음 사용하시나요?</strong><span>아래 순서대로 진행하세요.</span><a href="./dispatch-guide.html" target="_blank" rel="noopener">자세한 사용방법 ↗</a></div><ol class="dispatch-steps"><li><b>1</b><span><strong>업체 엑셀 첨부</strong><small>한빛탁송·오픈마일·렌톡 파일</small></span></li><li><b>2</b><span><strong>차량번호 목록 붙여넣기</strong><small>날짜와 차량번호 그대로 입력</small></span></li><li><b>3</b><span><strong>조회·확인 후 저장</strong><small>주유금액, 중복·미완료 차량 검토</small></span></li></ol><div class="dispatch-beginner-actions"><a class="dispatch-visual-guide" href="./quick-guide.html#dispatch">📷 화면으로 사용법 보기</a><button type="button" id="dispatchInputGuide">차량목록 입력칸으로 이동</button><small>스크린샷으로 순서를 확인한 뒤 실제 업무 파일을 사용하세요.</small></div></section><iframe src="./dispatch-tool.html?v=20261029-fuel-review" title="탁송체크 차량 조회" allow="clipboard-write"></iframe><script>
+<!doctype html><html lang="ko"><head><meta charset="utf-8"><meta name="viewport" content="width=device-width,initial-scale=1"><title>탁송체크 · 차량 조회</title><style>*{box-sizing:border-box}body{margin:0;font-family:system-ui,sans-serif;background:#f5f7f5}nav{min-height:54px;height:54px;overflow-x:auto;white-space:nowrap;display:flex;align-items:center;gap:20px;padding:0 20px;background:#fff;border-bottom:1px solid #dfe7e1}a{color:#254b3b;text-decoration:none;font-size:14px}a:focus-visible{outline:2px solid #254b3b}iframe{display:block;width:100%;height:calc(100dvh - 245px);min-height:520px;border:0}.dispatch-start{padding:12px 20px 14px;background:#f4f9f7;border-bottom:1px solid #dce8e2;color:#233c34}.dispatch-start-title{display:flex;gap:12px;align-items:center;flex-wrap:wrap;font-size:13px;margin-bottom:10px}.dispatch-start-title strong{font-size:15px}.dispatch-start-title>span{color:#597367}.dispatch-start-title a{margin-left:auto;text-decoration:underline;font-size:12px}.dispatch-steps{display:grid;grid-template-columns:repeat(3,minmax(0,1fr));gap:10px;margin:0;padding:0;list-style:none}.dispatch-steps li{display:flex;align-items:center;gap:9px;background:#fff;border:1px solid #dce9e3;border-radius:10px;padding:9px 11px}.dispatch-steps b{display:grid;place-items:center;flex:none;width:27px;height:27px;border-radius:50%;color:white;background:#347a62;font-size:13px}.dispatch-steps strong{display:block;font-size:13px}.dispatch-steps small{display:block;color:#718177;font-size:11px;margin-top:3px}.dispatch-beginner-actions{display:flex;gap:8px;align-items:center;flex-wrap:wrap;margin-top:9px}.dispatch-beginner-actions button{border:1px solid #9ec8b5;border-radius:8px;background:#fff;color:#235e47;padding:7px 12px;font-weight:700;cursor:pointer}.dispatch-visual-guide{display:inline-flex;align-items:center;justify-content:center;border:1px solid #27664d;border-radius:8px;background:#27664d;color:#fff;padding:7px 12px;font-size:13px;font-weight:800;text-decoration:none}.dispatch-visual-guide:hover,.dispatch-visual-guide:focus-visible{background:#1e563e;color:#fff}.dispatch-beginner-actions button:focus-visible{outline:2px solid #206e5b;outline-offset:3px}.dispatch-beginner-actions small{color:#677b6e;font-size:11px}@media(max-width:700px){.dispatch-start{padding:10px 12px}.dispatch-start-title{margin-bottom:8px}.dispatch-steps{grid-template-columns:1fr;gap:5px}.dispatch-steps li{padding:6px 9px}.dispatch-steps small{display:block;font-size:11px;line-height:1.4}.dispatch-start-title a{margin-left:0}.dispatch-beginner-actions button{font-size:12px}iframe{height:calc(100dvh - 420px);min-height:500px}}</style></head><body><nav aria-label="기능 이동"><a href="./index.html">← 홈</a><a href="./dispatch.html" aria-current="page">탁송체크</a><a href="./transfer.html">하나은행 이체파일</a><a href="./dispatch-guide.html" target="_blank" rel="noopener">상세 사용방법 ↗</a><a href="./changelog.html" target="_blank" rel="noopener">Change Log ↗</a></nav><section class="dispatch-start" aria-label="탁송체크 처음 사용 안내"><div class="dispatch-start-title"><strong>탁송체크 실무 순서</strong><span>사내 스크립트와 탁송 3사 조회 시트를 준비한 뒤 확인하세요.</span><a href="./dispatch-guide.html" target="_blank" rel="noopener">자세한 사용방법 ↗</a></div><ol class="dispatch-steps"><li><b>1</b><span><strong>차량번호 목록 붙여넣기</strong><small>‘탁송출발 주유비 미입력’ 스크립트 → 차량번호 추출·복사</small></span></li><li><b>2</b><span><strong>업체 엑셀 첨부</strong><small>탁송 3사 ‘탁송기한’ 조회 → 시트 다운로드</small></span></li><li><b>3</b><span><strong>조회·확인 후 저장</strong><small>주유비 미입력·중복·미완료 차량 확인</small></span></li></ol><div class="dispatch-beginner-actions"><a class="dispatch-visual-guide" href="./quick-guide.html#dispatch">📷 화면으로 사용법 보기</a><button type="button" id="dispatchInputGuide">차량목록 입력칸으로 이동</button><small>렌톡은 ‘출발시각’ 기준으로 기간을 조회해 다운로드하세요.</small></div></section><iframe src="./dispatch-tool.html?v=20261029-fuel-review" title="탁송체크 차량 조회" allow="clipboard-write"></iframe><script>
 (() => {
   const frame = document.querySelector('iframe');
   const status = document.createElement('div');

diff --git a/quick-guide.html b/quick-guide.html
@@ -44,7 +44,7 @@ section.guide{background:#fff;border:1px solid #dce7e1;border-radius:18px;paddin
 .go{display:inline-block;text-decoration:none;background:#0b7e6a;color:#fff;font-weight:800;padding:11px 18px;border-radius:9px;margin-top:16px}
 .note{font-size:13px;border:1px solid #f0e0b4;background:#fff8e8;border-radius:10px;padding:13px 15px;margin-top:20px;color:#785a27}
 footer{border-top:1px solid #dce7e1;margin-top:36px;padding-top:18px;font-size:13px;color:#658077}
-@media(max-width:760px){main{padding:25px 14px 45px}.top{padding:13px 18px;gap:12px}.choose,.steps,.screen-grid{grid-template-columns:1fr}.screen-grid .figure-card img{aspect-ratio:auto;max-height:340px;object-fit:cover;object-position:top}section.guide{padding:17px}.figure-card figcaption{display:block}.figure-card a{display:inline-block;margin-top:5px}}
+.dispatch-sources{display:grid;grid-template-columns:repeat(2,minmax(0,1fr));gap:13px;margin:20px 0}.source-block{border:1px solid #dce9e1;border-radius:12px;background:#f9fcfa;padding:17px;min-width:0}.source-block h3{font-size:17px;line-height:1.5;margin:10px 0 12px}.source-block ol{padding-left:20px;font-size:13px;color:#466859}.source-block li{margin-bottom:7px}.source-step{font-size:12px;font-weight:800;color:#16765b;background:#e5f3ea;border-radius:6px;padding:4px 8px}.source-outcome{margin:14px 0 0;color:#267353;font-size:13px;font-weight:750}.source-alert{padding:12px 15px;background:#fff6e5;border:1px solid #eddba7;border-radius:10px;color:#694e21;font-size:13px;line-height:1.65}.source-block strong{color:#1a5b44}@media(max-width:760px){.dispatch-sources{grid-template-columns:1fr}main{padding:25px 14px 45px}.top{padding:13px 18px;gap:12px}.choose,.steps,.screen-grid{grid-template-columns:1fr}.screen-grid .figure-card img{aspect-ratio:auto;max-height:340px;object-fit:cover;object-position:top}section.guide{padding:17px}.figure-card figcaption{display:block}.figure-card a{display:inline-block;margin-top:5px}}
 </style>
 </head>
 <body>
@@ -55,16 +55,22 @@ footer{border-top:1px solid #dce7e1;margin-top:36px;padding-top:18px;font-size:1
 <p class="intro">실제 WorkTool 화면을 캡처했습니다. 각 사진을 누르면 크게 볼 수 있습니다. 처음 사용하신다면 아래에서 업무를 선택하세요.</p>
 <div class="choose"><a href="#dispatch">🚗 탁송체크 사용법<span>업체 파일과 차량번호로 조회하기</span></a><a href="#transfer">📄 하나은행 이체파일 사용법<span>Slack 원문으로 Excel 파일 만들기</span></a></div>
 <section class="guide" id="dispatch" aria-labelledby="dispatchTitle">
-<span class="kicker">탁송체크</span>
-<h2 id="dispatchTitle">차량 조회는 이렇게 시작하세요</h2>
-<p class="section-description">업체 엑셀과 차량번호를 준비하고, 결과에 누락이나 중복이 없는지 확인합니다.</p>
-<div class="figure-card"><figure><a href="./guide/dispatch-screen.png" target="_blank" rel="noopener" aria-label="탁송체크 전체 화면 크게 보기"><img src="./guide/dispatch-screen.png" width="1366" height="1000" loading="lazy" alt="탁송체크 실제 화면: 왼쪽 차량목록 입력과 업체 파일 첨부, 오른쪽 조회 결과와 검토 상태"></a><figcaption><span>화면 왼쪽에서 차량목록과 업체 파일을 입력하고, 오른쪽에서 결과를 확인합니다.</span><a href="./guide/dispatch-screen.png" target="_blank" rel="noopener">화면 확대 보기 ↗</a></figcaption></figure></div>
+<span class="kicker">탁송체크 · 실제 업무 준비</span>
+<h2 id="dispatchTitle">차량번호 스크립트 실행부터 3사 시트 첨부까지</h2>
+<p class="section-description">WorkTool에서 조회하기 전에 필요한 원본을 준비하는 순서입니다. <strong>차량목록은 사내 스크립트에서</strong>, <strong>업체파일은 탁송 3사 조회 화면에서</strong> 가져옵니다.</p>
+<div class="dispatch-sources" aria-label="탁송 조회에 필요한 원본 준비 방법">
+<div class="source-block"><span class="source-step">원본 준비 1</span><h3>차량목록 = ‘탁송출발 주유비 미입력’ 스크립트</h3><ol><li>사내 <strong>탁송출발 주유비 미입력</strong> 스크립트를 실행합니다.</li><li>조회 결과에서 <strong>차량번호를 추출하고 복사</strong>합니다.</li><li>WorkTool 왼쪽의 <strong>차량목록 입력</strong> 칸에 붙여넣습니다.</li></ol><p class="source-outcome">결과: 조회할 차량번호 목록이 준비됩니다.</p></div>
+<div class="source-block"><span class="source-step">원본 준비 2</span><h3>업체파일 = 탁송 3사 ‘탁송기한’ 조회 시트</h3><ol><li><strong>한빛탁송 · 오픈마일 · 렌톡</strong>에서 각각 탁송기한을 조회합니다.</li><li>대상 기간을 선택하고 <strong>조회 후 시트 다운로드</strong>를 진행합니다.</li><li>다운로드한 시트 3개를 WorkTool <strong>업체 파일 첨부</strong>에 넣습니다.</li></ol><p class="source-outcome">결과: 차량번호와 비교할 업체별 원본 파일이 준비됩니다.</p></div>
+</div>
+<p class="source-alert"><strong>렌톡은 반드시 확인:</strong> 시트 조회 기준을 <strong>‘요청시각’에서 ‘출발시각’</strong>으로 변경한 후 대상 기간을 설정해 다운로드하세요. 세 업체의 조회 기간이 맞는지도 확인해 주세요.</p>
+<div class="figure-card"><figure><a href="./guide/dispatch-screen.png" target="_blank" rel="noopener" aria-label="탁송체크 전체 화면 크게 보기"><img src="./guide/dispatch-screen.png" width="1366" height="1000" loading="lazy" alt="탁송체크 실제 화면: 왼쪽 차량목록 입력과 업체 파일 첨부, 오른쪽 조회 결과와 검토 상태"></a><figcaption><span>스크린샷은 <strong>WorkTool 입력·조회 화면</strong>입니다. 스크립트와 3사 조회 화면은 포함하지 않습니다.</span><a href="./guide/dispatch-screen.png" target="_blank" rel="noopener">화면 확대 보기 ↗</a></figcaption></figure></div>
 <ol class="steps">
-<li><strong>업체 엑셀 첨부</strong><p>한빛탁송·오픈마일·렌톡 파일을 화면 왼쪽의 첨부 영역에 넣습니다.</p></li>
-<li><strong>차량번호 입력</strong><p>조회할 차량번호 목록을 붙여넣습니다. 날짜와 함께 복사한 내용도 가능합니다.</p></li>
-<li><strong>조회·검토·저장</strong><p>조회 버튼을 누르고 중복·미완료·금액 확인 필요 항목을 검토한 후 저장합니다.</p></li>
+<li><strong>차량번호 붙여넣기</strong><p>스크립트에서 복사한 차량번호를 화면 왼쪽 <strong>차량목록 입력</strong>에 붙여넣습니다.</p></li>
+<li><strong>업체 시트 첨부</strong><p>3사 탁송기한 조회에서 내려받은 시트를 <strong>업체 파일 첨부</strong>에 넣고 인식 여부를 확인합니다.</p></li>
+<li><strong>조회·검토·저장</strong><p><strong>차량 조회하기</strong>를 누르고 미조회·주유비 확인 필요·중복 기록을 검토한 후 결과를 저장합니다.</p></li>
 </ol>
 <a class="go" href="./dispatch.html">탁송체크 열기 →</a>
+<p class="section-description">상태별 금액 처리나 중복 차량 선택 기준은 <a href="./dispatch-guide.html" target="_blank" rel="noopener">탁송체크 상세 사용방법</a>에서 확인하세요.</p>
 </section>
 <section class="guide" id="transfer" aria-labelledby="transferTitle">
 <span class="kicker">하나은행 이체파일</span>

diff --git a/README.md b/README.md
@@ -35,11 +35,11 @@ Python 3가 설치된 환경에서 실행한 뒤 [http://localhost:8000](http://
 
 [탁송체크 상세 사용방법](./dispatch-guide.html)에서 입력 예시, 업체별 금액 처리, 상태 색상, 수동확인, 필터와 저장 범위를 확인할 수 있습니다. 홈과 탁송체크 상단의 **상세 사용방법** 링크는 작업을 유지하도록 새 탭으로 열립니다.
 
-1. 홈에서 **탁송체크**를 선택합니다. 상단 **업체 엑셀 첨부 → 차량번호 붙여넣기 → 조회·확인 후 저장** 순서를 참고하거나 **화면으로 사용법 보기**를 눌러 실제 캡처 화면을 확인할 수 있습니다.
-2. 한빛탁송·오픈마일·렌톡 업체 엑셀 파일을 첨부합니다.
-3. 조회할 차량목록을 입력하고 조회를 실행합니다.
-4. 상태, 업체, 날짜, 캐리어 여부, 주유비 확인 상태 등으로 결과를 좁혀 확인합니다.
-5. 필요한 차량번호와 금액을 복사하거나 결과를 TXT·Excel·PDF로 저장합니다.
+1. 사내 **‘탁송출발 주유비 미입력’ 스크립트**를 실행한 뒤, 결과에서 필요한 **차량번호를 추출·복사**합니다.
+2. WorkTool의 **차량목록 입력**에 복사한 차량번호를 붙여넣습니다. 날짜·시간이 함께 복사된 목록도 사용할 수 있습니다.
+3. **한빛탁송·오픈마일·렌톡** 각 업체에서 **‘탁송기한’ 조회 → 기간 설정 → 조회 → 시트 다운로드**를 진행합니다. **렌톡은 요청시각이 아닌 출발시각 기준**으로 조회합니다.
+4. 다운로드한 **3사 엑셀 시트**를 **업체 파일 첨부**에 넣고 파일명·인식된 업체·기록 건수를 확인합니다.
+5. **차량 조회하기**를 누른 후 미조회·미완료·주유비 확인 필요·중복 차량을 점검하고 필요한 결과를 복사하거나 TXT·Excel·PDF로 저장합니다.
 
 ### 조회 및 검토 기준
 
